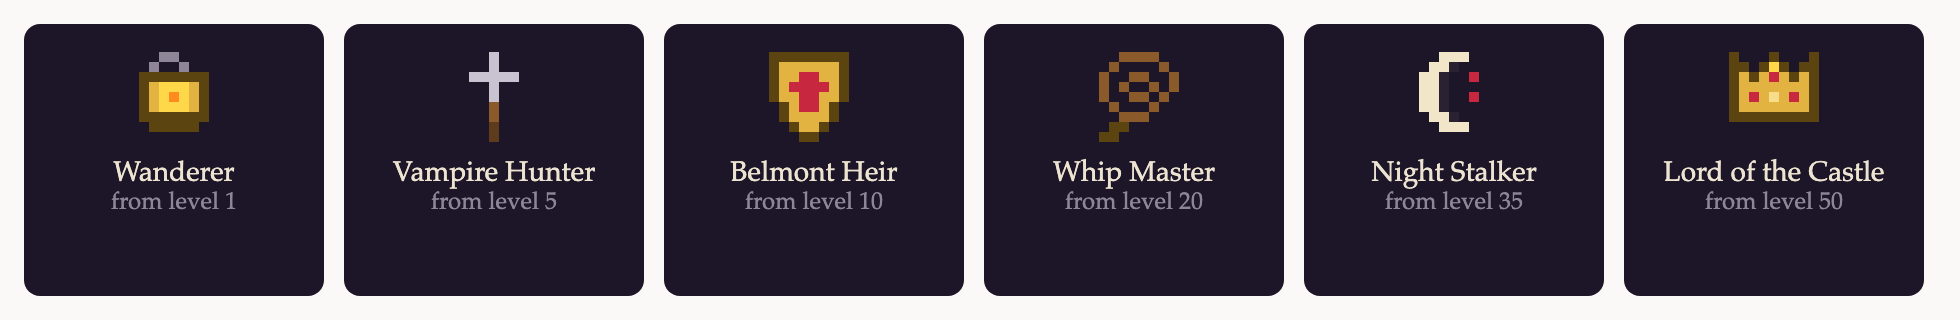
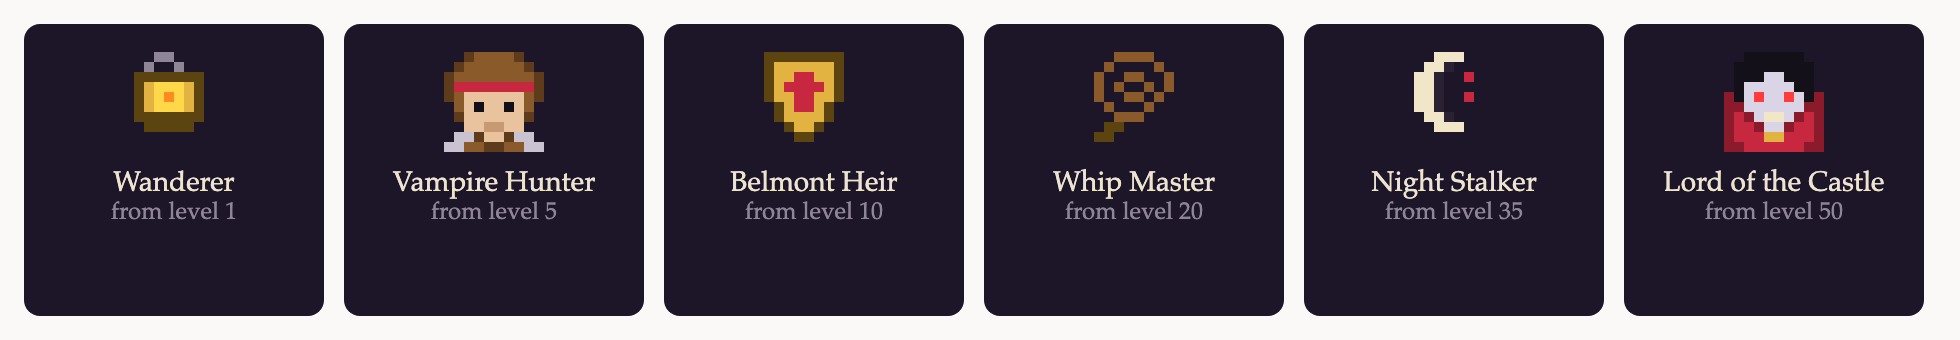
Portraits for Vampire Hunter and Lord of the Castle (0.10.1)

diff --git a/hooks/svg.ts b/hooks/svg.ts
@@ -44,16 +44,16 @@ const RESET_LABEL: Record<string, string> = { five_hour: '5hr', seven_day: '7d' 
 const DAGGER = ['..X..', '..X..', '.XWX.', '.XWX.', '.XWX.', '.XWX.', 'BBBBB', '..B..', '..B..']
 const SCROLL = ['.XXXXXXX.', 'XWWWWWWWX', '.WLLLLLW.', '.WWWWWWW.', '.WLLLLW..', '.WWWWWWW.', 'XWWWWWWWX', '.XXXXXXX.']
 
-/** One icon per title, shown in the level section: a lantern, a stake, the crest, a whip, a crescent moon, a crown. */
+/** One icon per title, shown in the level section: a lantern, the hunter's portrait, the crest, a whip, a crescent moon, the vampire lord's portrait. */
 export const TITLE_ICONS: Record<string, string[]> = {
   Wanderer: ['...ss....', '..s..s...', '.XXXXXXX.', '.XGYYYGX.', '.XGYOYGX.', '.XGYYYGX.', '.XXXXXXX.', '..XXXXX..', '.........'],
-  'Vampire Hunter': ['....S....', '....S....', '..SSSSS..', '....S....', '....S....', '....B....', '....B....', '....b....', '....b....'],
+  'Vampire Hunter': ['..bBBBBb..', '.bBBBBBBb.', 'bBBBBBBBBb', 'bRRRRRRRRb', 'bBFFFFFFBb', '.BFkFFkFB.', '.bFFFFFFb.', '..FFffFF..', '.SSbFFbSS.', 'SSBBbbBBSS'],
   'Belmont Heir': ['XXXXXXXX', 'XGGGGGGX', 'XGGRRGGX', 'XGRRRRGX', 'XGGRRGGX', '.XGRRGX.', '.XGGGGX.', '..XGGX..', '...XX...'],
   'Whip Master': ['...BBBB..', '..B....B.', '.B..BB..B', '.B.B..B.B', '.B..BB.B.', '..B...B..', '...BBB...', '..XX.....', '.XX......'],
   'Night Stalker': ['...WWW...', '..WWK....', '.WWK..R..', '.WWK.....', '.WWK..R..', '.WWK.....', '..WWK....', '...WWW...', '.........'],
-  'Lord of the Castle': ['X...X...X', 'XX.XYX.XX', 'XGXGRGXGX', 'XGGGGGGGX', 'XGRGHGRGX', 'XGGGGGGGX', 'XXXXXXXXX', '.........', '.........'],
+  'Lord of the Castle': ['..kkkkkk..', '.kkkkkkkk.', '.kkkppkkk.', '.kpppppkk.', 'CkpeppepkC', 'CCppppppCC', 'CRCpWWpCRC', 'CRRCppCRRC', 'CRRRGGRRRC', 'CCRRRRRRCC'],
 }
-const ICON_COLORS = { X: 'var(--goldDark)', G: 'var(--gold)', H: 'var(--goldLight)', R: 'var(--blood)', Y: '#ffd84a', O: '#ff8a1f', S: '#c9c3d1', s: 'var(--stone)', B: '#8a5a2b', b: '#5e3b1a', W: 'var(--lit)', K: '#2a2133' }
+const ICON_COLORS = { X: 'var(--goldDark)', G: 'var(--gold)', H: 'var(--goldLight)', R: 'var(--blood)', Y: '#ffd84a', O: '#ff8a1f', S: '#c9c3d1', s: 'var(--stone)', B: '#8a5a2b', b: '#5e3b1a', W: 'var(--lit)', K: '#2a2133', F: '#e8c39e', f: '#c79a74', k: '#14101a', p: '#d9d4e6', e: '#ff3b3b', C: '#8b1a2b' }
 
 const CREST = ['XXXXXXXX', 'XGGGGGGX', 'XGGRRGGX', 'XGRRRRGX', 'XGGRRGGX', '.XGRRGX.', '.XGGGGX.', '..XGGX..', '...XX...']
 

diff --git a/hooks/hud.test.ts b/hooks/hud.test.ts
@@ -177,4 +177,5 @@ test('every title has its own icon in the level section', () => {
   const crown = buildSvg({ usage: null, cache: null, bats: 0, now, prevPercent: 0, mode: 'dark', profile: { level: 50, title: 'Lord of the Castle', into: 0, need: 9000, xp: 99999, streak: 0, unlocked: [] } }).source
   expect(lantern).toContain('#ff8a1f') // the lantern's flame
   expect(crown).not.toContain('#ff8a1f')
+  expect(crown).toContain('#ff3b3b') // the vampire lord's red eyes
 })

diff --git a/README.md b/README.md
@@ -72,7 +72,7 @@ On a narrow window the sections wrap onto more rows, each at full size. The cast
 | Run tests that pass (npm, pnpm, yarn or bun test, pytest, jest, vitest, go test, cargo test and others) | +25 |
 | A subagent finishes | +15 |
 
-Each level needs a little more XP than the last. Titles change at level 1 (Wanderer), 5 (Vampire Hunter), 10 (Belmont Heir), 20 (Whip Master), 35 (Night Stalker) and 50 (Lord of the Castle), and each title has its own icon: a lantern, a stake, the crest, a whip, a crescent moon and a crown.
+Each level needs a little more XP than the last. Titles change at level 1 (Wanderer), 5 (Vampire Hunter), 10 (Belmont Heir), 20 (Whip Master), 35 (Night Stalker) and 50 (Lord of the Castle), and each title has its own icon: a lantern, a hunter's portrait, the crest, a whip, a crescent moon and a vampire lord's portrait.
 
 ![The six title icons](screenshots/titles.png)
 

diff --git a/CHANGELOG.md b/CHANGELOG.md
@@ -1,5 +1,9 @@
 # Changelog
 
+## 0.10.1
+
+- Vampire Hunter and Lord of the Castle show pixel portraits: a hunter in a red headband, and a pale vampire lord with red eyes and a high red collar.
+
 ## 0.10.0
 
 - Each title has its own icon in the level section: a lantern (Wanderer), a stake (Vampire Hunter), the crest (Belmont Heir), a whip (Whip Master), a crescent moon (Night Stalker) and a crown (Lord of the Castle).
